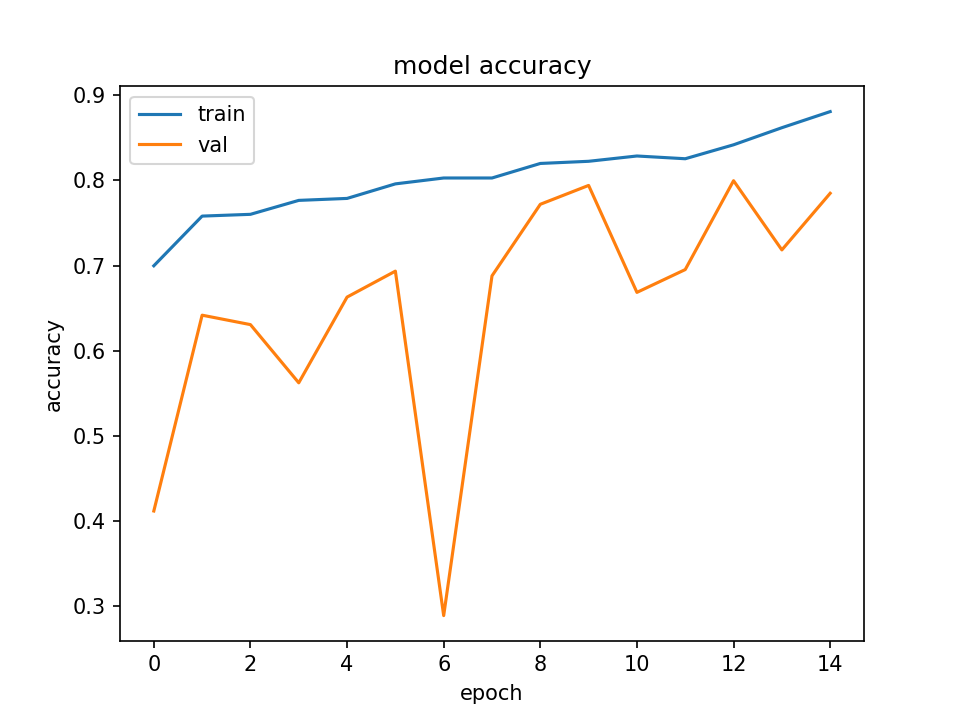
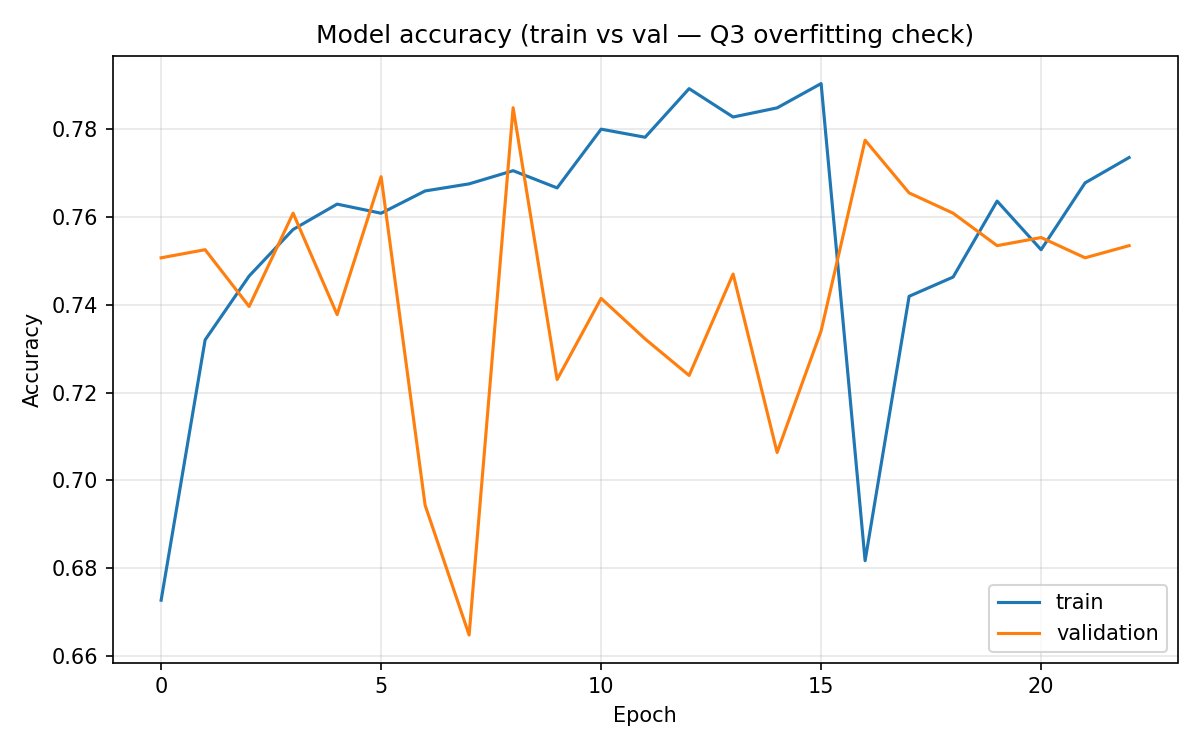
fix freeze backbone

diff --git a/pneumonia_classification.py b/pneumonia_classification.py
@@ -1,7 +1,7 @@
 from __future__ import print_function
 
 import tensorflow as tf
-from keras.layers import Dense, Dropout, GlobalAveragePooling2D, Rescaling
+from keras.layers import Dense, Dropout, GlobalAveragePooling2D
 from keras.optimizers import Adam
 import matplotlib
 matplotlib.use("Agg")
@@ -66,11 +66,14 @@ base = tf.keras.applications.MobileNetV2(
     weights='imagenet',
     input_shape=(img_height, img_width, img_channels),
 )
-# should freeze backbone for faster stable training
+base.trainable = False
+
+preprocess_input = tf.keras.applications.mobilenet_v2.preprocess_input
+
 inputs = tf.keras.Input(shape=(img_height, img_width, img_channels))
 x = data_augmentation(inputs)
-x = Rescaling(1.0/255)(x)
-x = base(x)
+x = preprocess_input(x)
+x = base(x, training=False)
 x = GlobalAveragePooling2D()(x)
 x = Dropout(0.35)(x)
 x = Dense(128, activation='relu')(x)
